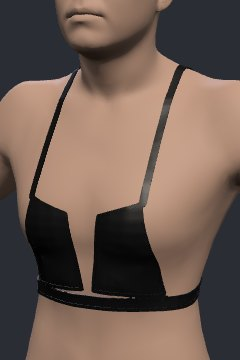
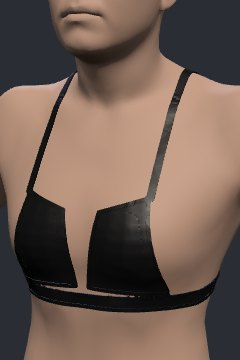
Clothes: bras at the fold under the breast, cups higher
The fold was the deepest point under the breast, which ran on down the slowly sinking ribs: every bra's band and
cups sat about 2.5 cm low. Now it's where the underside's slope has fallen to half its steepest (6 cm under the
point on the feminine body, not 8.5); the cups come higher (balconette 5.5 cm over the point, plunge 6, triangle
and bikini 7.5, sports 6.5). Pictures re-made; TAILOR 1g, LESSONS.

Claude-Session: https://claude.ai/code/session_014EE6XWSd5ZQ2iW4JueKcfY

Changed region(s): [[0.0, 0.0, 1.0, 1.0], [0.0, 0.2444, 0.0583, 0.3056], [0.7, 0.8556, 0.7583, 0.8861]]

diff --git a/tools/character/tailor/pieces.js b/tools/character/tailor/pieces.js
@@ -95,14 +95,25 @@ export function bust(F) {
       for (const [x, z] of l.pts) if ((x - cx) * sg > 0.03 * s && (x - cx) * sg < 0.14 * s && (!best || z > best[2])) best = [x, r.y, z];
     }
     if (!best) best = [cx + sg * 0.09 * s, F.bustY, cz + 0.1 * s];
-    let fold = null, low = Infinity;
-    for (const r of S.rows.filter(r => r.y < best[1] - 0.03 * s && r.y > best[1] - 0.14 * s).reverse()) {
+    // the fold: going down from the point, where the breast's steep underside eases onto the ribs (the slope over a
+    // centimetre fallen to half its steepest, after it was over 0.55), or where the front comes out again; the deepest point
+    // alone ran on down the slowly sinking ribs to the waist, and every bra sat on the ribs (the user: "way too low")
+    const prof = [];
+    for (const r of S.rows.filter(r => r.y < best[1] - 0.005 * s && r.y > best[1] - 0.14 * s).reverse()) {
       const l = S.central(r); if (!l) continue;
       let z = -Infinity; for (const [x, zz] of l.pts) if (Math.abs(x - best[0]) < 0.012 * s) z = Math.max(z, zz);
-      if (!Number.isFinite(z)) continue;
-      if (z <= low) { low = z; fold = r.y; } else if (z > low + 0.002 * s) break;   // the front comes out again: the belly
+      if (Number.isFinite(z)) prof.push([r.y, z]);
     }
-    out[k] = { x: best[0], y: best[1], z: best[2], fold: clamp(fold ?? best[1] - 0.07 * s, best[1] - 0.1 * s, best[1] - 0.045 * s) };
+    let fold = null, low = Infinity, lowY = null, steep = false, peak = 0;
+    for (let i = 0; i < prof.length; i++) {
+      const [y, z] = prof[i];
+      if (z <= low) { low = z; lowY = y; } else if (z > low + 0.002 * s) { fold = lowY; break; }   // the front comes out again: the belly
+      const up = prof.findLast((q, j) => j < i && q[0] >= y + 0.01 * s); if (!up) continue;
+      const slope = (up[1] - z) / (up[0] - y);
+      peak = Math.max(peak, slope); if (slope > 0.55) steep = true; else if (steep && slope < 0.5 * peak) { fold = y; break; }
+    }
+    if (fold === null) fold = steep ? lowY : best[1] - 0.06 * s;   // a flat chest: 6 cm under the point
+    out[k] = { x: best[0], y: best[1], z: best[2], fold: clamp(fold ?? best[1] - 0.06 * s, best[1] - 0.1 * s, best[1] - 0.035 * s) };
   }
   out.under = (out.L.fold + out.R.fold) / 2;
   return (F._bust = out);

diff --git a/docs/TAILOR.md b/docs/TAILOR.md
@@ -200,6 +200,10 @@ The clothes are skinned, never simulated, so the cut keeps to what skinning carr
   never breaks. A **string bikini** (`string-bikini`: a small front triangle, strings over the hips, a cheeky back) and a
   **halter triangle top** (`bikini-top`: the bra's `halter`, its straps from the cups' points round behind the neck and
   no straps down the back; `inner`, each triangle on its own breast with a gap between) after the user's own OBJs.
+- **Bras at the fold** (the user: "the bras are way too low"): the fold under the breast (`bust`) is where its steep
+  underside eases onto the ribs (the slope fallen to half its steepest), not the deepest point below it, which ran on
+  down the slowly sinking ribs; on the feminine body 6 cm under the point, not 8.5. The cups come higher (balconette
+  5.5 cm over the point, plunge 6, triangle and bikini 7.5, sports 6.5).
 - **The wardrobe**: outfit groups Casual, Smart casual, Business, Uniforms, Sleepwear, Swimwear, Underwear, Designer;
   new basics joggers, sweatshirt, polo, suit trousers, pyjama top and trousers, sleep shorts, swim shorts; bikinis from
   the underwear's cuts in spandex; fabric, colour, pattern and prints doing the variety. Not made yet: a shirt dress

diff --git a/docs/LESSONS.md b/docs/LESSONS.md
@@ -1462,3 +1462,6 @@ guessed margin; and a check that only ever ran on a slow machine hasn't been run
 - **A shader branch on a sign makes an edge:** the hang folds stored as a negative drag, switched in where they beat
   the armpits' pull, drew a hard line under the bust. Add the two (drag minus hang) and branch on zero, so the value
   crosses smoothly.
+- **A landmark is a shape, not an extreme:** the fold under the breast found as the deepest point below it ran on
+  down the ribs, which keep sinking slowly to the waist, and every bra sat 2.5 cm low. Find the bend (the slope fallen
+  to half its steepest) and measure it on all seven bodies before trusting it.

diff --git a/docs/DECISIONS.md b/docs/DECISIONS.md
@@ -9,6 +9,8 @@ The user's answers, newest first. They override the plan, the research and the d
   string bikini's top and bottom as OBJs and a guide to fitting them. Built: the waistline's `hip` lift (TAILOR §1g),
   every thong, tanga, G-string and bikini brief re-cut on it, a string bikini and a halter triangle top after the OBJs.
   The OBJs themselves stay out of the project (only looked at).
+- **"The bras are way too low"**: the fold under the breast found where its underside eases onto the ribs, the cups
+  higher (TAILOR §1g).
 
 ## 2026-11-01, later (the user: the clothing review, on `clothing-refiner`)
 
